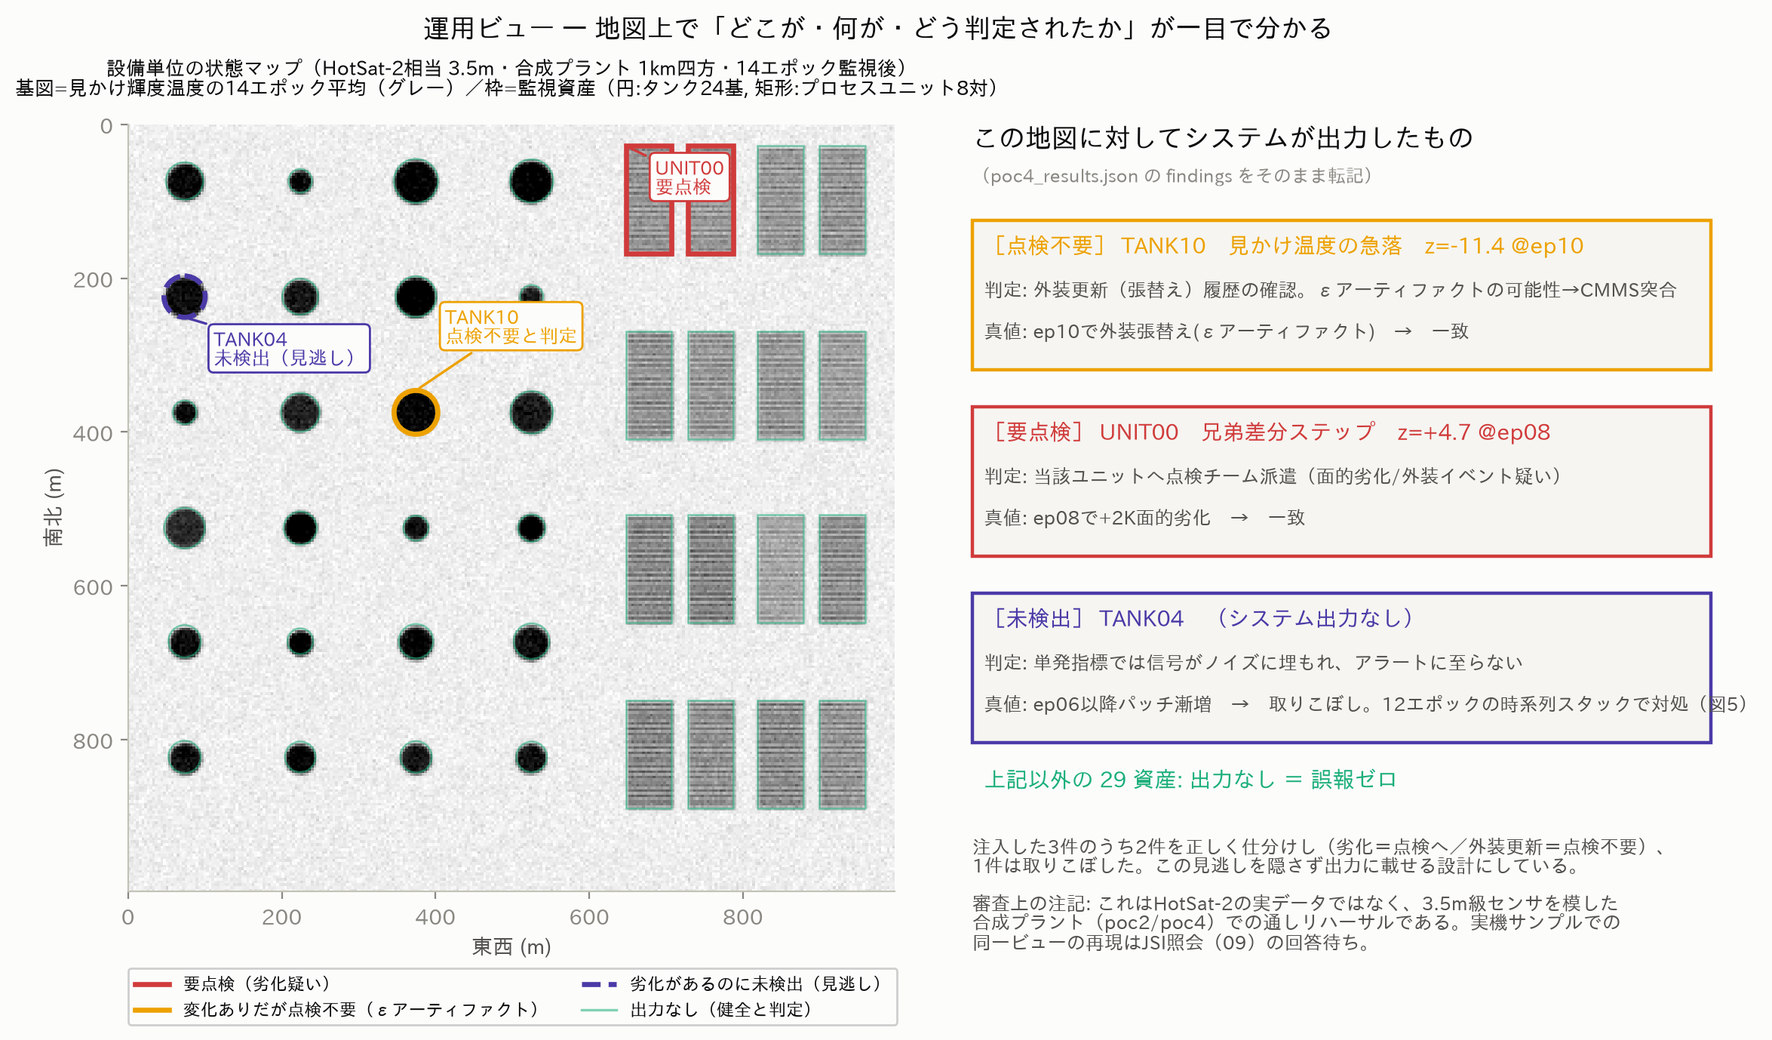
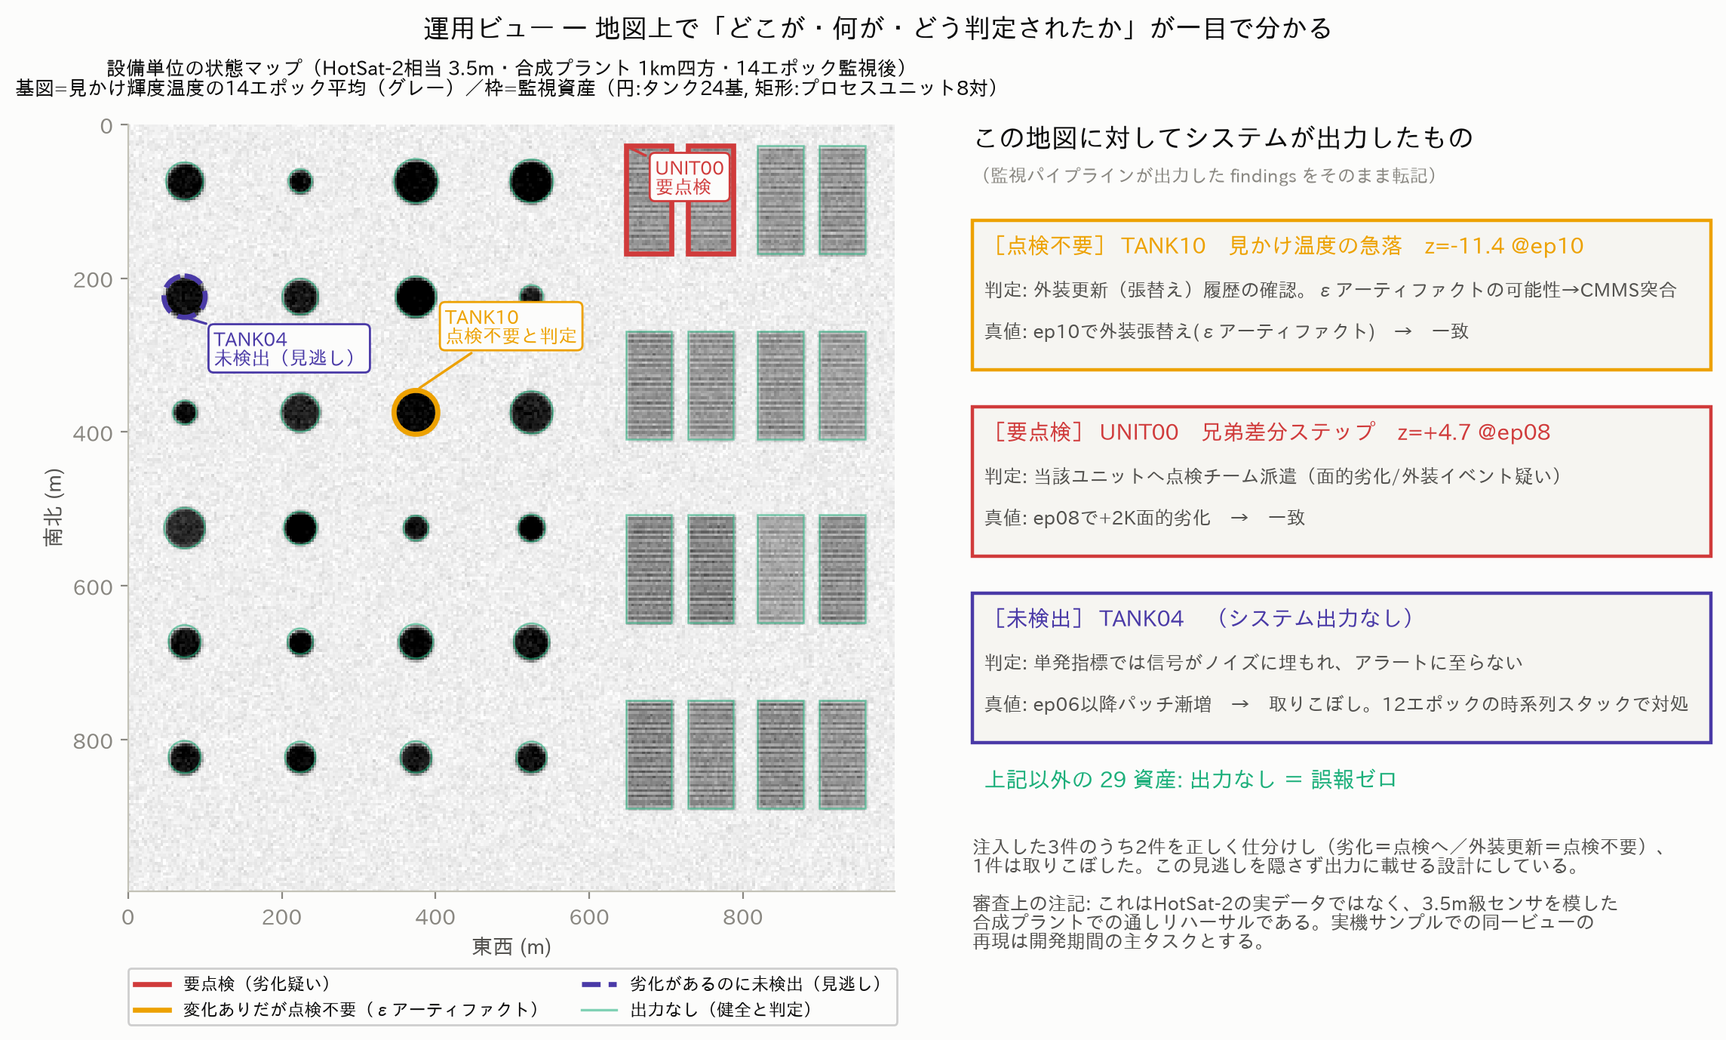
第2サイクル（N-61〜N-65）に対応
- N-61 図の画像内に焼き込まれていたファイル名（poc/out/*.json、poc4_results.json）と
  他図への参照（図1b・図2・図4〜図7）を make_figures.py から除去して再生成。
  fig8の「JSI照会（09）の回答待ち」も未完了の時制なので開発期間の主タスクへ書き換え
- N-62 チェックリスト7b・8・20の検査対象を「本文・キャプション・図の中の文字」に拡張
- N-63 表1を315→186字に圧縮し、記入欄まるごとの実測値（①523/②500/③537/④696/⑤529）を明記
- N-64 ②は図表を置かない（fig1bは②本文と接点が無く③の主張）。図番号を図1〜図3に振り直し
- N-65 実施スケジュール欄の図表の扱いを、割当節と同じ根拠に統一
- 図版READMEに提出版での採用表と「図の中に他図参照・ファイル名を書かない」規律を追記

Claude-Session: https://claude.ai/code/session_01CXdSR4czwyEHPg3Zh6EDiq

diff --git a/12_提出版_様式4.md b/12_提出版_様式4.md
@@ -4,7 +4,7 @@
 >
 > **Wordへ転記するのは、`>` の付かない本文の段落と、「図N」「表N」で始まるキャプション行と、表の中身だけ**である。`>` で始まる行（この行を含む）、見出しに付した字数注記、「【提出時に削除】」の3節は転記しない。
 >
-> **字数の数え方**: 見出しに付した字数は本文（`>` 行・キャプション行・表を除いた段落）を、改行と空白を除いて数えた値で、`python3 count_chars.py 12_提出版_様式4.md` で再計測できる。**採用した図表とそのキャプションは本文字数に含めていない**——様式4は「５００字程度で記載してください。文章を補足する図表を1点のみ入れても構いません」と書くだけで、図表とキャプションを字数に含めるかは要項にもFAQにも記載がないためである。数え方の解釈がどちらでも通るよう、**本文を各500字以内に保ち、キャプションは30字前後に抑えてある**（記入欄をまるごとWordの文字カウントにかけても各530字程度に収まる）。
+> **字数の数え方**: 見出しに付した字数は本文（`>` 行・キャプション行・表を除いた段落）を、改行と空白を除いて数えた値で、`python3 count_chars.py 12_提出版_様式4.md` で再計測できる。**採用した図表とそのキャプションは本文字数に含めていない**——様式4は「５００字程度で記載してください。文章を補足する図表を1点のみ入れても構いません」と書くだけで、図表とキャプションを字数に含めるかは要項にもFAQにも記載がないためである。数え方の解釈がどちらでも通るよう、**本文を各500字以内に保ち、キャプションは30字前後に抑えてある**。記入欄をまるごとWordの文字カウントにかけた場合は①523／②500／③537／⑤529字で、**④のみ図表枠に表1を採用しているため696字**になる（表の文字は本文ではなく「図表1点」として計上している。表を本文に算入する解釈を採るなら表1を落とすことになるが、④の審査項目は先行事例との差分の提示であり、表を残す判断をしている）。
 >
 > 図表は**各設問1点まで（図と表は同じ枠）**。割当は文末の表で排他に決めてある。図表番号は提出物内で1から振り直してあり、リポジトリの `poc/out/fig/` の連番とは別である。
 
@@ -32,9 +32,7 @@
 
 不足は「見る範囲と頻度」であり、全数・定常・同一センサという衛星の優位が最も効く。本提案はテーマ1「インフラ構造物の劣化等の点検や監視」に応え、点検を監視へ転換し、重大事故の予防と点検資源の最適配分に貢献する。省エネ・CO2削減は副次的便益と位置づける。
 
-> ［図表1点］`poc/out/fig/fig1b_method_budget.png` を貼り、直下のキャプション行を図の下に置く。
-
-図2 撮像間の絶対値比較は誤差9.4Kで検知信号1.6Kを上回り成立しない。
+> ［図表なし］この設問には図表を置かない（様式上は任意）。手持ちの図版のうち②の文章を補足するものが無く、誤差バジェットの図は③の主張に属するため、③の枠（図2）に置いている。
 
 ## ３．衛星データ活用の有効性（本文499字／500字程度）
 
@@ -48,7 +46,7 @@
 
 > ［図表1点］`poc/out/fig/fig7_resolution_gap.png` を貼り、直下のキャプション行を図の下に置く。
 
-図3 30m級では劣化信号が約1/25に薄まる（合成シーンによる同条件比較）。
+図2 30m級では劣化信号が約1/25に薄まる（合成シーンによる同条件比較）。
 
 ## ４．サービスの新規性（本文492字／500字程度）
 
@@ -62,12 +60,12 @@
 
 表1 近傍の先行事例と本提案との差分。
 
-| 先行事例 | 内容 | 本提案との差分 |
+| 先行事例 | 内容 | 差分 |
 |---|---|---|
-| SatVu／JSIの産業施設向け稼働インテリジェンス（2026） | 製油所・LNGプラント等の稼働有無・活動量の熱把握 | 熱の有無の判別。本提案は同一設備の経年放射増加＝断熱性能低下のトレンド検知 |
-| SatVu Heat Loss Index（ESA資金、2025） | 建物ストックの熱損失指標化 | 都市建物の省エネ評価。低放射率金属外装の測定設計・操業交絡分離・保全業務統合を含まない |
-| Fortum×Advian（2020、フィンランド） | 地域熱供給導管の漏水検知実証 | 埋設導管の漏水で物理・対象が異なる。単発実証 |
-| Saudi Aramco等の特許群 | 地上熱画像×機械学習によるCUI検知 | 地上センサ前提。衛星による広域スクリーニングではない |
+| SatVu／JSIの稼働インテリジェンス（2026） | 産業施設の稼働有無・活動量の把握 | 熱の有無の判別 |
+| SatVu Heat Loss Index（2025） | 建物ストックの熱損失指標化 | 省エネ評価で保全業務外 |
+| Fortum×Advian（2020） | 地域熱供給導管の漏水検知実証 | 埋設導管で物理が異なる |
+| Saudi Aramco等の特許群 | 地上熱画像×MLのCUI検知 | 地上センサ前提 |
 
 ## ５．実用化による社会発展性（本文498字／500字程度）
 
@@ -79,11 +77,11 @@
 
 > ［図表1点］`poc/out/fig/fig8_operations_map.png` を貼り、直下のキャプション行を図の下に置く。
 
-図4 運用画面＝地図と資産ごとの判定リスト（シミュレーション）。
+図3 運用画面＝地図と資産ごとの判定リスト（シミュレーション）。
 
 ## 実施スケジュール（字数指定なし）
 
-> 転記メモ: 期間は様式4本文の「2026年10月〜2027年5月」とFAQの「2026年11〜2027年6月」の両端を含む形で月別に記載している。この欄には図表点数の制限が様式上明記されていないため、表形式で記載する。
+> 転記メモ: 期間は様式4本文の「2026年10月〜2027年5月」とFAQの「2026年11〜2027年6月」の両端を含む形で月別に記載している。下の月別表は「文章を補足するための図表」ではなく、様式が記載を求めている内容そのものなので図表1点には数えない。**この欄には別途の図を置かない。**
 
 1次審査通過後から2次審査までの期間で、監視パイプラインのプロトタイプをHotSat-2実データ上で成立させる。本期間で証明することを先に定義する。(1) 総合誤差バジェットが実データで要求感度に届くこと、(2) 劣化既知／健全既知の資産を横断した判別性能（AUC）、(3) 業務プロトタイプの動作である。反対に、月次時系列による漸進トレンドの前向き実証は季節1周期以上を要するため本期間では行わず、設計書の提示にとどめる。補強すべき事項は、感度実力値・実効取得率・タスキング実勢価格の3点であり、いずれも机上値ではなく実測で埋める。
 
@@ -110,15 +108,21 @@
 | 設問 | 提出物内の番号 | リポジトリの図版 | 種別 | 代替案（採用しない） |
 |---|---|---|---|---|
 | ①提案の概要 | 図1 | `fig0_overview.png` | 図 | fig8（⑤で使用） |
-| ②課題の妥当性 | 図2 | `fig1b_method_budget.png` | 図 | 図表を置かない（様式上は任意） |
-| ③衛星データ活用の有効性 | 図3 | `fig7_resolution_gap.png` | 図 | fig6 実Landsatでの実証（実証重視なら差し替え可。本文に数値があるため分解能ギャップを優先） |
+| ②課題の妥当性 | （置かない） | — | — | fig1b 絶対値比較の不成立。②本文と語の接点が無く、同じ主張が③本文にあるため③側へ回した |
+| ③衛星データ活用の有効性 | 図2 | `fig7_resolution_gap.png` | 図 | fig6 実Landsatでの実証（実証重視なら差し替え可。本文に数値があるため分解能ギャップを優先） |
 | ④サービスの新規性 | 表1 | （本文の表） | 表 | 図を置かない（表を採用したため） |
-| ⑤実用化による社会発展性 | 図4 | `fig8_operations_map.png` | 図 | fig9 実Landsatの運用ビュー |
-| 実施スケジュール | （番号なしの月別表） | — | 表 | — |
+| ⑤実用化による社会発展性 | 図3 | `fig8_operations_map.png` | 図 | fig9 実Landsatの運用ビュー |
+| 実施スケジュール | （番号を振らない月別表） | — | 表 | — |
 
-不採用: fig1・fig2・fig3・fig4・fig5・fig6・fig9。数値は本文に残してある。
+不採用: fig1・fig1b・fig2・fig3・fig4・fig5・fig6・fig9。数値は本文に残してある。
+
+**採用する3枚の図は、画像の中にリポジトリのファイル名や他図への参照が焼き込まれていないことを
+確認済みである**（`poc/src/make_figures.py` を修正して再生成した。提出物では図番号を1から振り直して
+いるため、画像内に「図5」等が残っていると別の図を指してしまう）。図を差し替えた場合は同じ確認を
+やり直すこと（チェックリスト7b・8・20）。
+
 実施スケジュール欄の月別表は「文章を補足する図表」ではなく様式が記載を求めている内容そのものなので、
-図表番号は振らない。
+図表番号は振らず、図表1点にも数えない。この欄には別途の図を置かない。
 
 ## 【提出時に削除】転記対応表
 
@@ -166,10 +170,10 @@
 
 ### 提出物の機械チェック（Wordの様式4へ転記した後、この順で確認）
 
-6. [ ] 様式4の5設問がすべて埋まっており、各設問が500字程度に収まっている。**数えるのは本文の段落のみで、採用した図表とそのキャプションは含めない**（この解釈の根拠は要項にもFAQにも無いため、記入欄をまるごとWordの文字カウントにかけても各530字程度に収まるよう本文500字以内・キャプション30字前後に抑えてある）。転記後にWordで再計測し、本文が500字を超えていないことを確認する。
+6. [ ] 様式4の5設問がすべて埋まっており、各設問が500字程度に収まっている。**数えるのは本文の段落のみで、採用した図表とそのキャプションは含めない**（この解釈の根拠は要項にもFAQにも無い）。転記後にWordで再計測し、本文が500字を超えていないことを確認する。記入欄をまるごと数えた場合は①523／②500／③537／⑤529字、**④は表1を含めて696字**になることを承知の上で提出する。
 7. [ ] 各設問の図表が1点以内である（**図と表は同じ枠**。④は表1を採用しているので図を追加しない）。
-7b. [ ] 採用した図表それぞれにキャプション（「図1」〜「図4」「表1」で始まる行）が付いており、キャプションにファイルパス（`poc/out/fig/…`）が混入していない。図表番号が提出物内で1から連番になっている。
-8. [ ] 図表が本文と同じファイル内に貼り込まれており、本文からの参照が提出物の中で閉じている（提出物の外を指す参照が無い）。
+7b. [ ] 採用した図表それぞれにキャプション（「図1」〜「図3」「表1」で始まる行）が付いており、キャプションにファイルパスが混入していない。図表番号が提出物内で1から連番になっている。**貼り込んだ図を画像として目視し、図の中の文字に、提出物に存在しない図番号（図4・図5・図1b等）や他図への参照が書かれていないことを確認する**（提出物では番号を振り直しているため、画像内の「図2」が別の図を指す衝突が起きる）。
+8. [ ] 図表が本文と同じファイル内に貼り込まれており、参照が提出物の中で閉じている（提出物の外を指す参照が無い）。**検査対象は本文・キャプション・図の中の文字の3つ**——図の内部にリポジトリのファイル名や未同梱の図への参照が焼き込まれていた実績がある。
 9. [ ] 実施スケジュールが月別に記載され、2026年10月から2027年6月までの各月に取り組みがある。
 10. [ ] 様式1の応募テーマがテーマ１の行のみになっている（テーマ２の行を削除）。
 11. [ ] 様式1の提案名・応募者名・応募法人名・応募代表者名が記入済みで、応募者名がニックネームでない。
@@ -181,7 +185,7 @@
 17. [ ] 本原稿の `>` で始まる転記メモ、「【提出時に削除】」の3節、**および設問見出しに付した字数注記（「本文NNN字／500字程度」）** が、Word側に一切転記されていない。逆に、「図N」「表N」で始まるキャプション行は**転記されている**（17の削除対象と取り違えないこと）。
 18. [ ] Markdown記法が残っていない（`**`、`|`、`` ` ``、`---`）。表はWordの表に、強調は書式に置き換わっている。
 19. [ ] 提出物に「付録」への参照が0件である（付録は提出しない。根拠の要旨は各設問に埋め込み済み）。
-20. [ ] 提出物に他ファイル名（`.md`、`.png`、`.json`）への参照が0件である。
+20. [ ] 提出物に他ファイル名（`.md`、`.png`、`.json`）への参照が0件である。**本文・キャプションだけでなく、貼り込んだ図の中の文字も目視で確認する。**
 21. [ ] 提出物に応募者情報・チーム体制の節が無い（様式1・2へ転記済みのため様式4には置かない）。
 22. [ ] 事務局照会・JSI照会・協力先打診について、提出物の記述が提出時点の事実と一致している（「これから照会する」「打診開始予定」等の未完了の時制が残っていない）。本原稿はこれらを提出物に載せない設計なので、追記した場合のみ確認する。
 23. [ ] 第三者（協力先候補・取引先）の承諾のない具体名を書いていない。

diff --git a/poc/out/fig/README.md b/poc/out/fig/README.md
@@ -8,6 +8,28 @@
 
 ---
 
+## 提出版での採用（2026年8月8日確定）
+
+様式4は**各設問に図表1点まで（図と表は同じ枠）**なので、提出物に載るのは3枚だけである。
+提出物内の図番号はリポジトリの連番とは別に1から振り直してある。
+
+| 提出物 | この階層のファイル | 置く設問 |
+|---|---|---|
+| 図1 | `fig0_overview.png` | ①提案の概要 |
+| 図2 | `fig7_resolution_gap.png` | ③衛星データ活用の有効性 |
+| 図3 | `fig8_operations_map.png` | ⑤実用化による社会発展性 |
+| 表1 | （図版ではなく本文の表） | ④サービスの新規性 |
+
+②課題の妥当性には図表を置かない。実施スケジュール欄の月別表は図表1点に数えない。
+
+> **図の中に他図への参照やファイル名を書かないこと。** 提出物は図番号を1から振り直すため、
+> 画像内に「（図5）」等が残っていると別の図を指してしまい、`poc/out/*.json` のような
+> ファイル名は提出物の外を指す参照になる。2026年8月8日に fig0・fig4・fig8・fig9 の
+> 画像内テキストから除去済み（`make_figures.py` を修正して再生成）。
+> 図を作り直すときも同じ規律を守ること。
+
+---
+
 ## 一次審査での使い方
 
 一次審査は「技術的に本当に成立するのか」を短時間で判断される。図版の並びは
@@ -20,19 +42,19 @@
 一枚で答える。** 図8が設備単位（HotSat-2相当・合成）、図9が複合体単位（実Landsat）で、
 2枚は同じ「地図＋判定リスト」の型で揃えてあるため並べて読める。
 
-| 図 | 主張（1行） | 根拠 | 08_応募書類ドラフト.md の配置先 |
+| 図 | 主張（1行） | 根拠 | 提出版（12_提出版_様式4.md）での扱い |
 |---|---|---|---|
-| **fig0_overview** | 監視チェーンの全段が自主PoCで裏付けられており、できないことは自白済み | poc1〜poc4 の全結果 | 冒頭（提案概要の直後） |
-| **fig8_operations_map** | 地図上で、劣化=要点検／外装更新=点検不要／見逃し を資産ごとに提示 | poc4 モードBのシーンを再現し findings を重畳 | 冒頭（提案概要）または5節（業務フロー） |
-| **fig7_resolution_gap** | 30m級TIRでは劣化信号が1/25に薄まる。3.5m級が要る理由 | poc2の合成シーンを3画素サイズで観測 | 2節（衛星選定の根拠） |
-| **fig9_realdata_map** | 同じ運用ビューを実Landsatに適用し、6複合体すべて健全判定＝誤検知ゼロ | poc4 モードA（実データ6エポック） | 4節 PoC-4（実データ節） |
-| **fig6_realdata** | 実Landsatで前処理〜検知が通り、共通モード除去で振れ幅36.0K→7.7K、誤検知ゼロ | poc4 モードA（実データ6エポック） | 4節 PoC-4（実データ節） |
-| fig1_snr_budget | 何が見えて何が見えないかをSNRで明示 | poc1 誤差バジェット | 3節 原則1 |
-| fig1b_method_budget | 絶対値比較は誤差RSS 9.4Kで物理的に不成立 | poc1 誤差バジェット | 3節 原則1 |
-| fig2_unit_auc | 兄弟差分の時間変化（二重差分）が推定器の本命 | poc2 合成シーンMC | 4節 PoC-2 |
-| fig3_rain_feature | 降雨後特徴量は現行1機では機会的。必須機能に置かない | poc3 実気象2020-2025 | 4節 PoC-3 |
-| fig4_pipeline | 劣化を検出し、外装更新を誤報せず、見逃しも開示する | poc4 合成14エポック | 4節 PoC-4 |
-| fig5_tank_stack | タンクパッチは時系列スタックで限界域から検出域へ | poc2 v2検知器 | 4節 PoC-2 |
+| **fig0_overview** | 監視チェーンの全段が自主PoCで裏付けられており、できないことは自白済み | poc1〜poc4 の全結果 | **①に「図1」として採用** |
+| **fig8_operations_map** | 地図上で、劣化=要点検／外装更新=点検不要／見逃し を資産ごとに提示 | poc4 モードBのシーンを再現し findings を重畳 | **⑤に「図3」として採用** |
+| **fig7_resolution_gap** | 30m級TIRでは劣化信号が1/25に薄まる。3.5m級が要る理由 | poc2の合成シーンを3画素サイズで観測 | **③に「図2」として採用** |
+| **fig9_realdata_map** | 同じ運用ビューを実Landsatに適用し、6複合体すべて健全判定＝誤検知ゼロ | poc4 モードA（実データ6エポック） | 不採用（⑤の代替案） |
+| **fig6_realdata** | 実Landsatで前処理〜検知が通り、共通モード除去で振れ幅36.0K→7.7K、誤検知ゼロ | poc4 モードA（実データ6エポック） | 不採用（③の代替案） |
+| fig1_snr_budget | 何が見えて何が見えないかをSNRで明示 | poc1 誤差バジェット | 不採用 |
+| fig1b_method_budget | 絶対値比較は誤差RSS 9.4Kで物理的に不成立 | poc1 誤差バジェット | 不採用（②に置くと本文と接点が無いため見送り） |
+| fig2_unit_auc | 兄弟差分の時間変化（二重差分）が推定器の本命 | poc2 合成シーンMC | 不採用 |
+| fig3_rain_feature | 降雨後特徴量は現行1機では機会的。必須機能に置かない | poc3 実気象2020-2025 | 不採用 |
+| fig4_pipeline | 劣化を検出し、外装更新を誤報せず、見逃しも開示する | poc4 合成14エポック | 不採用 |
+| fig5_tank_stack | タンクパッチは時系列スタックで限界域から検出域へ | poc2 v2検知器 | 不採用 |
 
 ---
 
